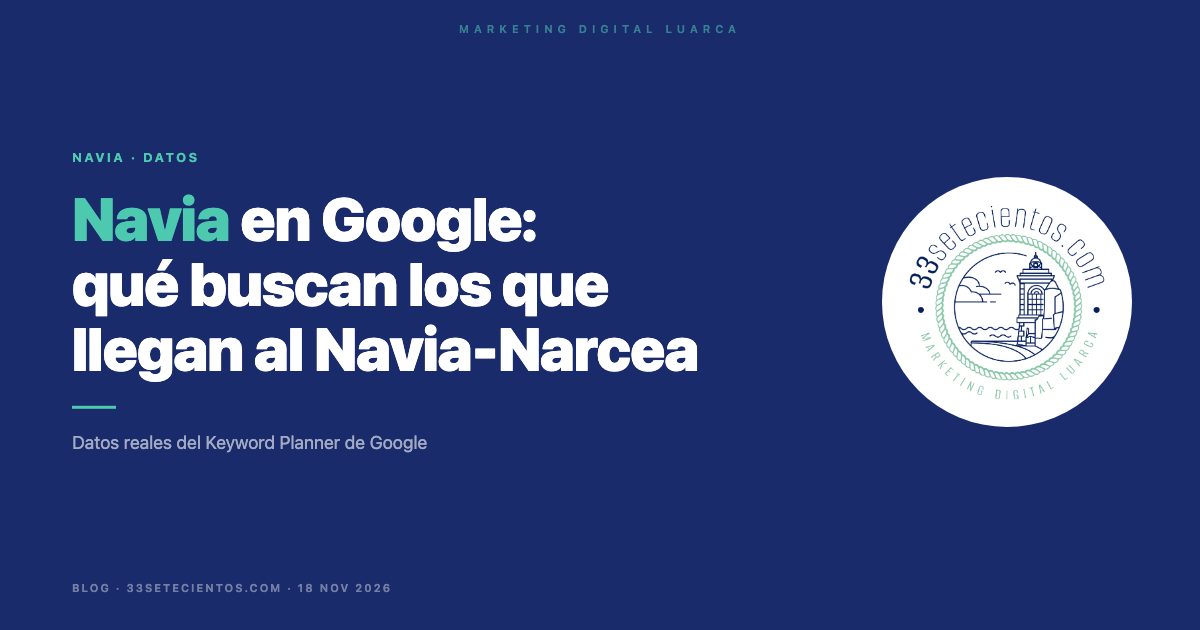
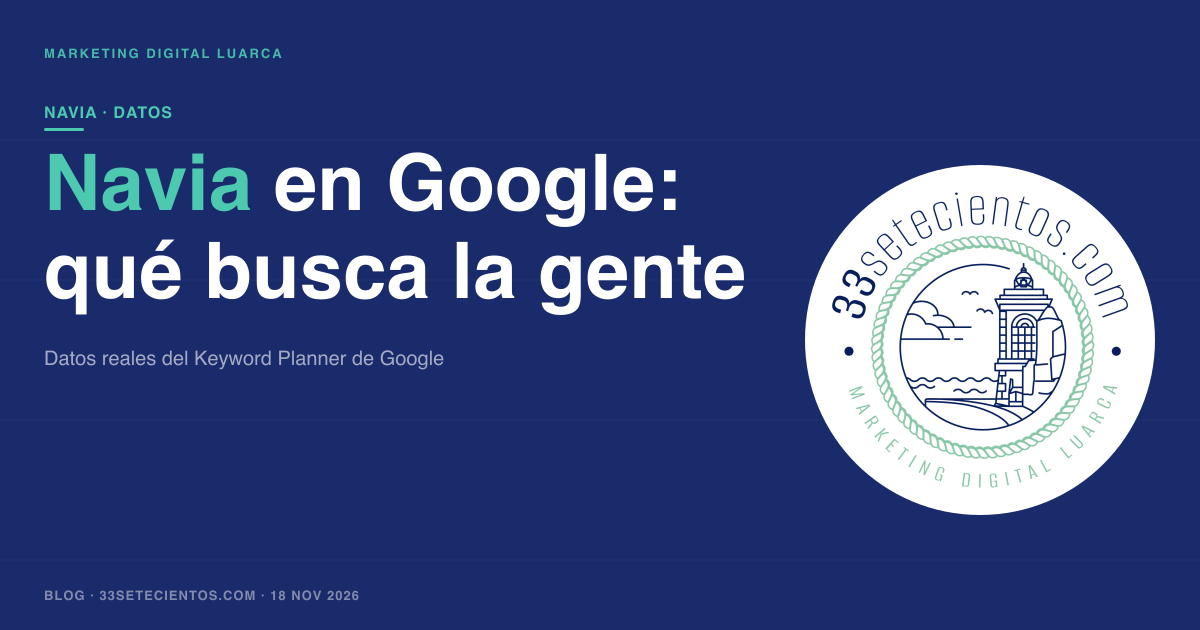
blog: corregir y ampliar post Navia en Google
- Título: eliminar referencia a Navia-Narcea (no tiene sentido)
  → "Navia en Google: qué busca la gente"
- Contenido: añadir sección sobre "qué ver en Navia" (720 búsq/mes,
  competencia baja) que era la categoría más importante omitida
- Puerto de Vega: ampliar con insight sobre nombrar la localidad
- Conclusión: añadir mapa completo por categorías en lugar de solo 2
- CTA final: eliminar "diagnóstico gratuito", sustituir por
  "cuéntanos tu caso"
- Imagen OG: regenerar con el título corregido

diff --git a/src/content/blog/navia-asturias-busquedas-google.md b/src/content/blog/navia-asturias-busquedas-google.md
@@ -1,13 +1,13 @@
 ---
-title: "Navia en Google: qué buscan los que llegan al Navia-Narcea"
-description: "3.600 búsquedas de 'Navia Asturias' cada mes. Datos reales de lo que buscan los turistas y qué oportunidad tienen los negocios del Navia-Narcea en Google."
+title: "Navia en Google: qué busca la gente"
+description: "3.600 búsquedas de 'Navia Asturias' cada mes. Qué buscan, dónde están las oportunidades reales y qué puede hacer un negocio de Navia para aparecer."
 pubDate: "2026-11-18"
 tags: ['navia', 'datos']
 heroImage: /images/blog/navia-asturias-busquedas-google.png
 draft: false
 ---
 
-3.600 personas buscan "Navia Asturias" en Google cada mes. No son residentes consultando dónde están — son personas que planifican una escapada, que buscan dónde comer antes de salir de casa, que deciden si van o no van. Estos son los datos reales del Keyword Planner de Google y lo que dicen sobre lo que está pasando en las búsquedas del Navia-Narcea.
+3.600 personas buscan "Navia Asturias" en Google cada mes. No son residentes consultando dónde están — son personas que planifican una escapada, que buscan dónde comer antes de salir de casa, que deciden si van o no van. Estos son los datos reales del Keyword Planner de Google y lo que revelan sobre Navia.
 
 ## 3.600 búsquedas al mes: Navia existe en Google
 
@@ -29,21 +29,31 @@ La alternativa no es competir en Google Ads en ese mercado. Es trabajar el SEO d
 
 "Comer en Navia" suma otras 320 búsquedas con el mismo patrón. Es exactamente lo contrario al problema del alojamiento. En restauración, la puerta está abierta: quien quiera aparecer en esas búsquedas puede hacerlo con un trabajo básico de presencia digital sin necesitar publicidad de pago.
 
+## Qué ver en Navia: 720 búsquedas y nadie responde bien
+
+"Qué ver en Navia" suma **720 búsquedas mensuales** con competencia baja. Es la misma cifra que los hoteles, pero con una diferencia importante: en alojamiento la competencia ya es alta; en "qué ver", casi no hay nadie trabajando esa intención.
+
+Detrás de esa búsqueda no hay solo turistas buscando monumentos. Hay personas que están decidiendo si visitan Navia, buscando argumentos para elegirla frente a otro destino, o consultando qué hacer durante una estancia. Responder bien esa pregunta — con una página, una ficha de Google actualizada o contenido útil — es una forma de captar visibilidad en el momento exacto de la decisión.
+
+Negocios que no son ni hotel ni restaurante tienen aquí su oportunidad más directa: actividades, tiendas, servicios, espacios culturales. El espacio más desaprovechado de todos los datos.
+
 ## Puerto de Vega tiene identidad propia en las búsquedas
 
 Puerto de Vega genera búsquedas independientes del concejo. "Hoteles en Puerto de Vega" (170 búsquedas), "qué ver en Puerto de Vega" (140) y "restaurantes Puerto de Vega" (140) son términos con volumen propio.
 
-Para un negocio ubicado allí, esto tiene una implicación directa: trabajar con el nombre de la localidad — no solo "Navia" — puede captar búsquedas con menos competencia y más intención clara de visita.
+Para un negocio ubicado allí, esto tiene una implicación directa: trabajar con el nombre de la localidad — no solo "Navia" — puede captar búsquedas con menos competencia y más intención clara de visita. Dos palabras más en el nombre que usa en Google pueden hacer una diferencia real en a quién llega.
 
 ## El Camino del Norte pasa por Navia
 
 El albergue San Roque aparece en los datos con 40 búsquedas mensuales. Es un número pequeño, pero los peregrinos del Camino del Norte son un segmento que planifica con días de antelación: buscan alojamiento, restauración y servicios antes de llegar. [Ya vimos cómo este flujo afecta a los negocios de la costa asturiana](/blog/camino-norte-peregrinos-luarca-negocios-digitales/) — en Navia el patrón es el mismo. Volumen bajo, constante y con intención de compra clara.
 
-## Qué hace un negocio del Navia-Narcea con todo esto
+## Qué hace un negocio de Navia con todo esto
 
-Los datos marcan dos situaciones muy distintas según el sector:
+Los datos dibujan un mapa con zonas muy distintas:
 
 - **Alojamiento**: la batalla en paid está ganada por las OTAs. El trabajo va por SEO orgánico, reputación en reseñas y ficha de Google bien trabajada.
-- **Restaurantes y hostelería**: la ventana está abierta. Aparecer en "restaurantes Navia" o "comer en Navia" es viable hoy sin invertir en publicidad.
+- **Restaurantes y hostelería**: la puerta está abierta. Aparecer en "restaurantes Navia" o "comer en Navia" es viable hoy sin invertir en publicidad.
+- **Qué ver y qué hacer**: competencia casi inexistente, intención de visita clara. El espacio más desaprovechado de todos.
+- **Puerto de Vega**: nombrar la localidad específica en la presencia digital puede multiplicar la visibilidad con un esfuerzo mínimo.
 
-Si tienes un negocio en Navia y quieres saber en qué posición estás en Google, [podemos hacerte un diagnóstico gratuito](https://33setecientos.com/marketing-digital-navia/).
+Si quieres saber cómo está tu negocio en Google, [cuéntanos tu caso](https://33setecientos.com/marketing-digital-navia/).
